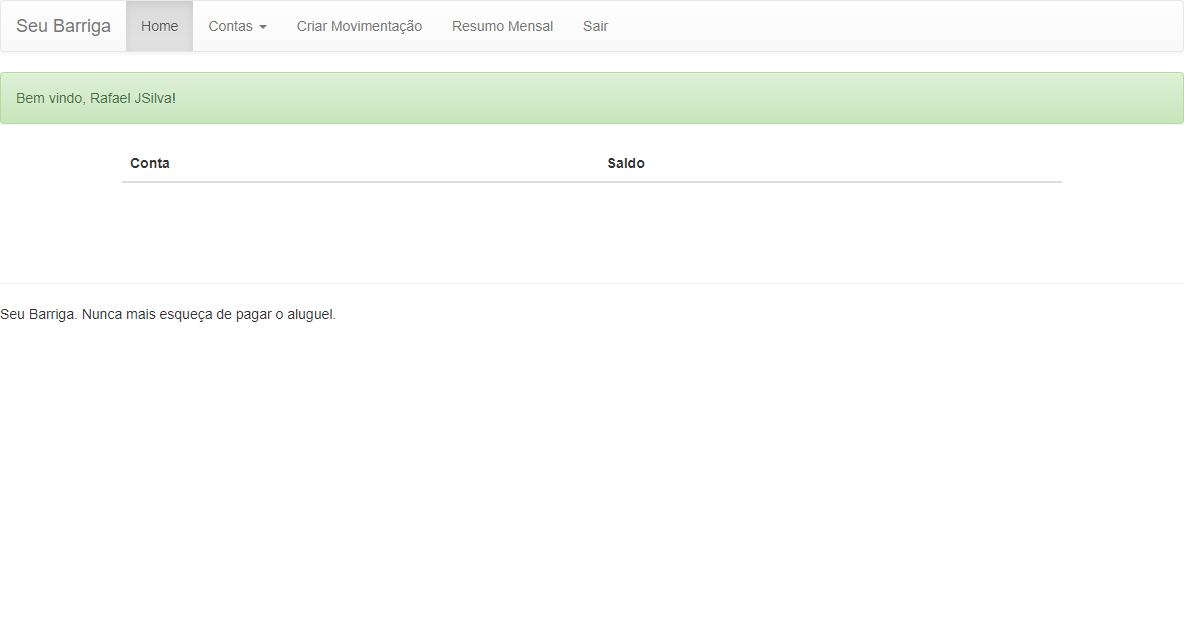
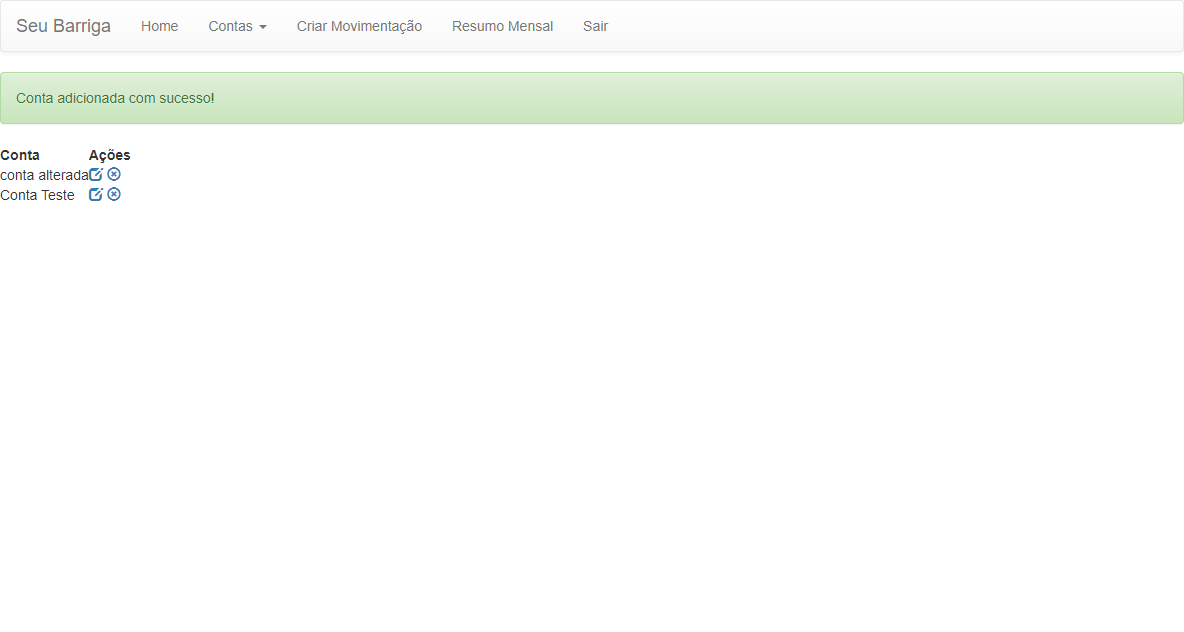
Teste Inserir Conta

diff --git a/src/main/java/br/ce/wcaquino/tests/ContaTeste.java b/src/main/java/br/ce/wcaquino/tests/ContaTeste.java
@@ -1,14 +1,25 @@
 package br.ce.wcaquino.tests;
 
+import org.junit.Assert;
 import org.junit.Test;
 
 import br.ce.wcaquino.core.BaseTest;
+import br.ce.wcaquino.pages.ContasPage;
+import br.ce.wcaquino.pages.MenuPage;
 
 public class ContaTeste extends BaseTest {
 	
+	MenuPage menuPage = new MenuPage();
+	ContasPage contasPage = new ContasPage();
+	
 	@Test
 	public void test() {
+		menuPage.acessarTelaInserirConta();
 		
+		contasPage.setNome("Conta Teste");
+		contasPage.salvar();
+		
+		Assert.assertEquals("Conta adicionada com sucesso!", contasPage.obterMensagemSucesso());
 	}
 	
 

diff --git a/src/main/java/br/ce/wcaquino/pages/ContasPage.java b/src/main/java/br/ce/wcaquino/pages/ContasPage.java
@@ -1,0 +1,21 @@
+package br.ce.wcaquino.pages;
+
+import org.openqa.selenium.By;
+
+import br.ce.wcaquino.core.BasePage;
+
+public class ContasPage extends BasePage {
+	
+	public void setNome(String nome) {
+		escrever("nome", nome);
+	}
+	
+	public void salvar() {
+		clicarBotao(By.xpath("//button[.='Salvar']"));
+	}
+	
+	public String obterMensagemSucesso() {
+		return obterTexto(By.xpath("//div[@class='alert alert-success']"));
+	}
+
+}

diff --git a/src/main/java/br/ce/wcaquino/pages/MenuPage.java b/src/main/java/br/ce/wcaquino/pages/MenuPage.java
@@ -1,0 +1,12 @@
+package br.ce.wcaquino.pages;
+
+import br.ce.wcaquino.core.BasePage;
+
+public class MenuPage extends BasePage {
+	
+	public void acessarTelaInserirConta() {
+		clicarLink("Contas");
+		clicarLink("Adicionar");
+	}
+
+}

diff --git a/src/main/java/br/ce/wcaquino/core/Propriedades.java b/src/main/java/br/ce/wcaquino/core/Propriedades.java
@@ -2,7 +2,7 @@ package br.ce.wcaquino.core;
 
 public class Propriedades {
 	
-	public static boolean FECHAR_BROWSER = true;
+	public static boolean FECHAR_BROWSER = false;
 	
 	public static Browsers browser = Browsers.CHROME;
 	
